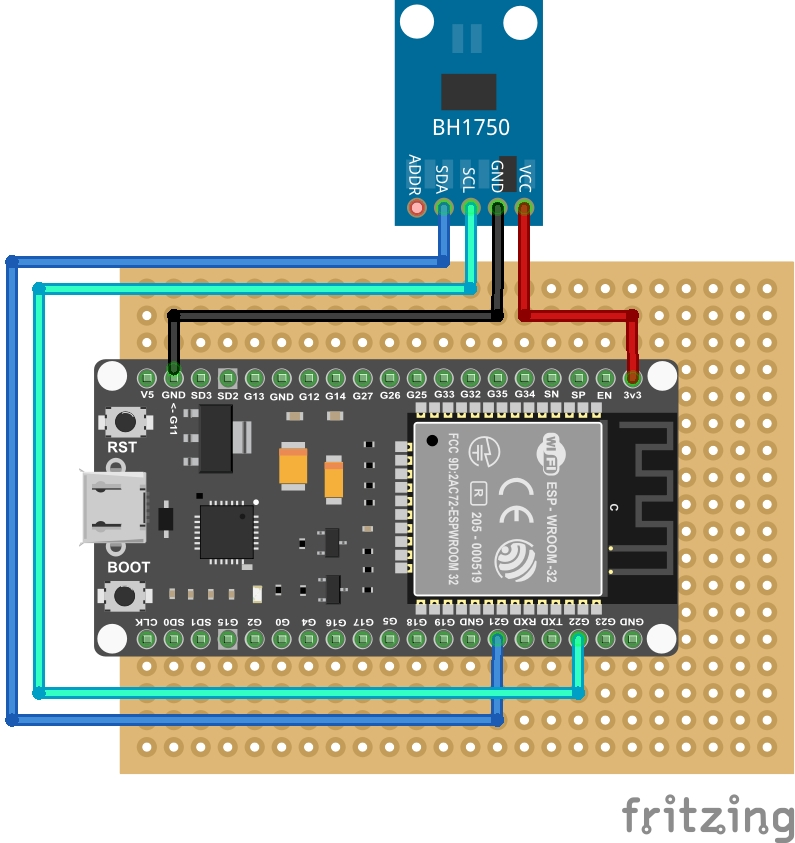
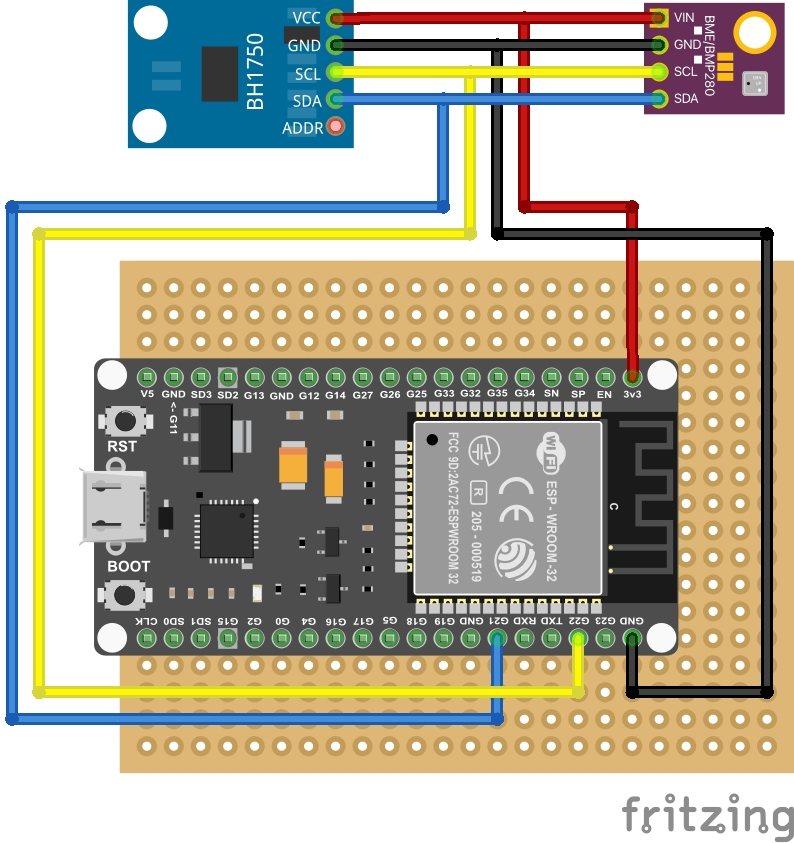
initial code for light and temperature sensors, add hardware specs

diff --git a/software/esp32-window-light-sensor/TemperatureSensor.h b/software/esp32-window-light-sensor/TemperatureSensor.h
@@ -1,0 +1,29 @@
+#include <Wire.h>
+//#include <Adafruit_Sensor.h>
+#include <Adafruit_BMP280.h>
+
+Adafruit_BMP280 HW611;
+
+struct TemperatureSensor : Service::TemperatureSensor {
+  SpanCharacteristic *temperature;
+  
+  TemperatureSensor() : Service::TemperatureSensor(){
+    temperature=new Characteristic::CurrentTemperature(0);
+    temperature->setRange(-40,85);
+        
+    Serial.print("Configuring Temperature");
+    Serial.print("\n");
+
+    HW611.begin(BMP280_I2C_ADDRESS); // TODO: handle initialization errors
+  } 
+
+  void loop(){
+    if(temperature->timeVal()>2500){
+      float celsius=HW611.readTemperature();;
+      temperature->setVal(celsius); 
+      LOG1("Temperature Update: ");
+      LOG1(celsius);
+      LOG1(" °C\n");
+    }
+  } 
+};

diff --git a/software/esp32-window-light-sensor/LightSensor.h b/software/esp32-window-light-sensor/LightSensor.h
@@ -1,0 +1,29 @@
+#include <Wire.h>
+#include <BH1750.h>
+
+BH1750 GY302(BH1750_I2C_ADDRESS);
+
+struct LightSensor : Service::LightSensor {
+  SpanCharacteristic *light;
+  
+  LightSensor() : Service::LightSensor(){
+    light=new Characteristic::CurrentAmbientLightLevel(0);
+    light->setRange(0,65535);
+        
+    Serial.print("Configuring Light Sensor");
+    Serial.print("\n");
+
+    GY302.begin(); // TODO: handle initialization errors
+  } 
+
+  void loop(){
+    if(light->timeVal()>2500){
+      uint16_t lux = GY302.readLightLevel();
+      light->setVal(lux); 
+
+      LOG1("Light Update: ");
+      LOG1(lux);
+      LOG1(" lx\n");
+    }
+  } 
+};

diff --git a/hardware/HARDWARE.md b/hardware/HARDWARE.md
@@ -3,10 +3,11 @@
 ## Bill of Materials
 
 - MCU: ESP32 Dev Board - see [MCU.md](MCU.md)
-- light sensor: BH1750
+- light sensor: **BH1750** (`BH1750FVI`) in GY-302 kit
+- temperature sensor: **BMP280** in HW-611 kit
 - 5x7cm double-sided prototype board
-- IDC10 board connector
-- IDC10 terminated cable to be routed at edge of window glass (so it can be behind shades), 3m
+- IDC10 board connector: 1x angled, 1x straight
+- IDC10 terminated ribbon cable to be routed at edge of window glass (so it can be behind shades), 3m
 - plastic case - Kradex Z34B
 
 ### Light sensor selection
@@ -17,8 +18,36 @@
 - TSL2581FN: more precise, but no ready-made integration, not easily available in reasonable package
 - TSL25911: seems the best, but not easily available at all
 
+### Cable selection
+
+4 lines would be enough, but IDC10 is easier to obtain and is mure rigid. Future iterations may repurpose USB cable.
+
 ## Schematic
 
 Fritzing project: [esp32-lightsensor.fzz](esp32-lightsensor.fzz)
 
 [![](./breadboard.jpg)](./breadboard.jpg)
+
+## I2C
+
+### BMP280
+
+I2C is enabled by default, pulling **CSB** pin low will turn I2C off and activate SPI. That means while it should be connected to VDD (but never pulled high when VDD is floating) it can be safely left floating.
+
+I2C address is `0x76` when **SDO** pin is pulled low or floating, pulling it high will switch it to `0x77`. I2C address can be switched at any moment.
+
+To set address in code, update following line in [`../software/esp32-window-light-sensor.ino`](../software/esp32-window-light-sensor.ino):
+
+```c
+#define BMP280_I2C_ADDRESS 0x76
+```
+
+### BH1750
+
+I2C address is `0x23` when **SDO** pin is pulled low or floating, pulling it high will switch it to `0x5C`.
+
+To set address in code, update following line in [`../software/esp32-window-light-sensor.ino`](../software/esp32-window-light-sensor.ino):
+
+```c
+#define BH1750_I2C_ADDRESS 0x23
+```

diff --git a/README.md b/README.md
@@ -1,6 +1,6 @@
 # ESP32 based Window Light Sensor with HomeKit and MQTT support
 
-Used as a sensor for automatic shades closure when it's too bright for delicate eyes of nerd.
+Used as a sensor for automatic shades closure when it's too bright for delicate eyes of nerd. Added temperature sensor as cheap addition to I2C bus.
 
 HomeKit for automation, MQTT for reporting to HomeAssistant. 
 
@@ -10,13 +10,15 @@ Arduino sketch - [./software/esp32-window-light-sensor/](./software/esp32-window
 
 ### Libraries
 
-- ESP32
+- ESP32 v2.0.5
 - HomeSpan
     - until https://github.com/HomeSpan/HomeSpan/issues/414 is resolved, fork https://github.com/danielskowronski/HomeSpan is required for "upgraded" Home
+- BH1750 v1.3.0
+- BMP280 v2.6.6
 
 ## Hardware
 
-ESP32 board with breadboard components - [./hardware/HARDWARE.md](./hardware/HARDWARE.md)
+ESP32 board connected to light and temperature sensors via ribbon cable - [./hardware/HARDWARE.md](./hardware/HARDWARE.md)
 
 ## Usage
 
